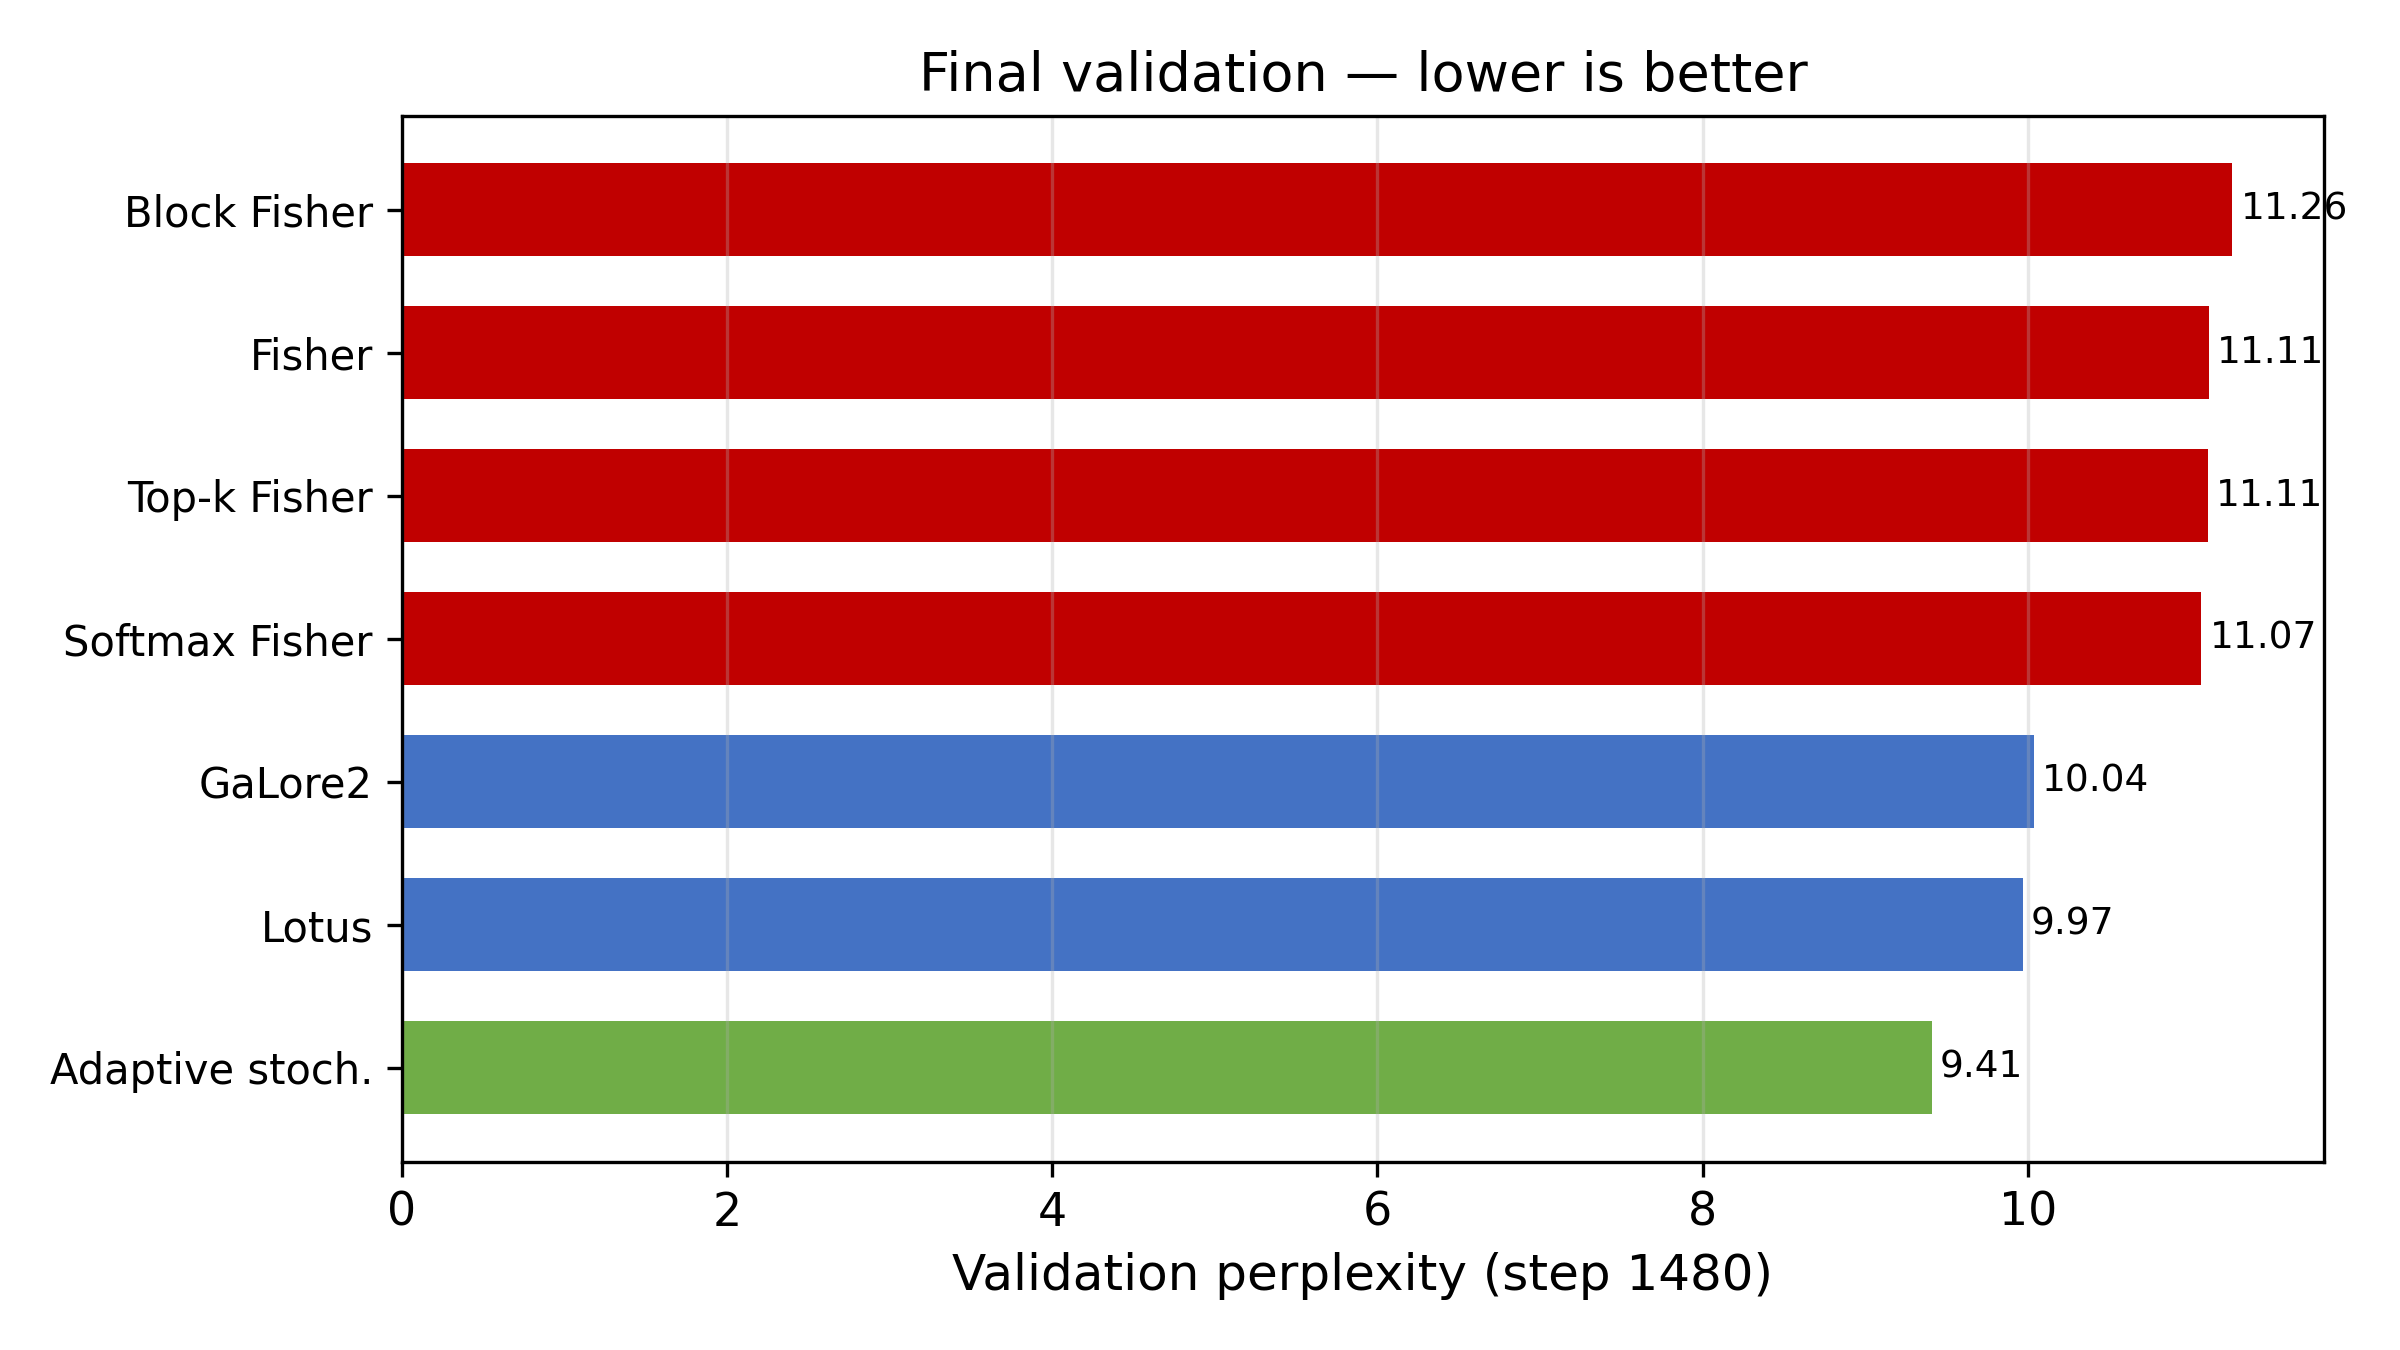
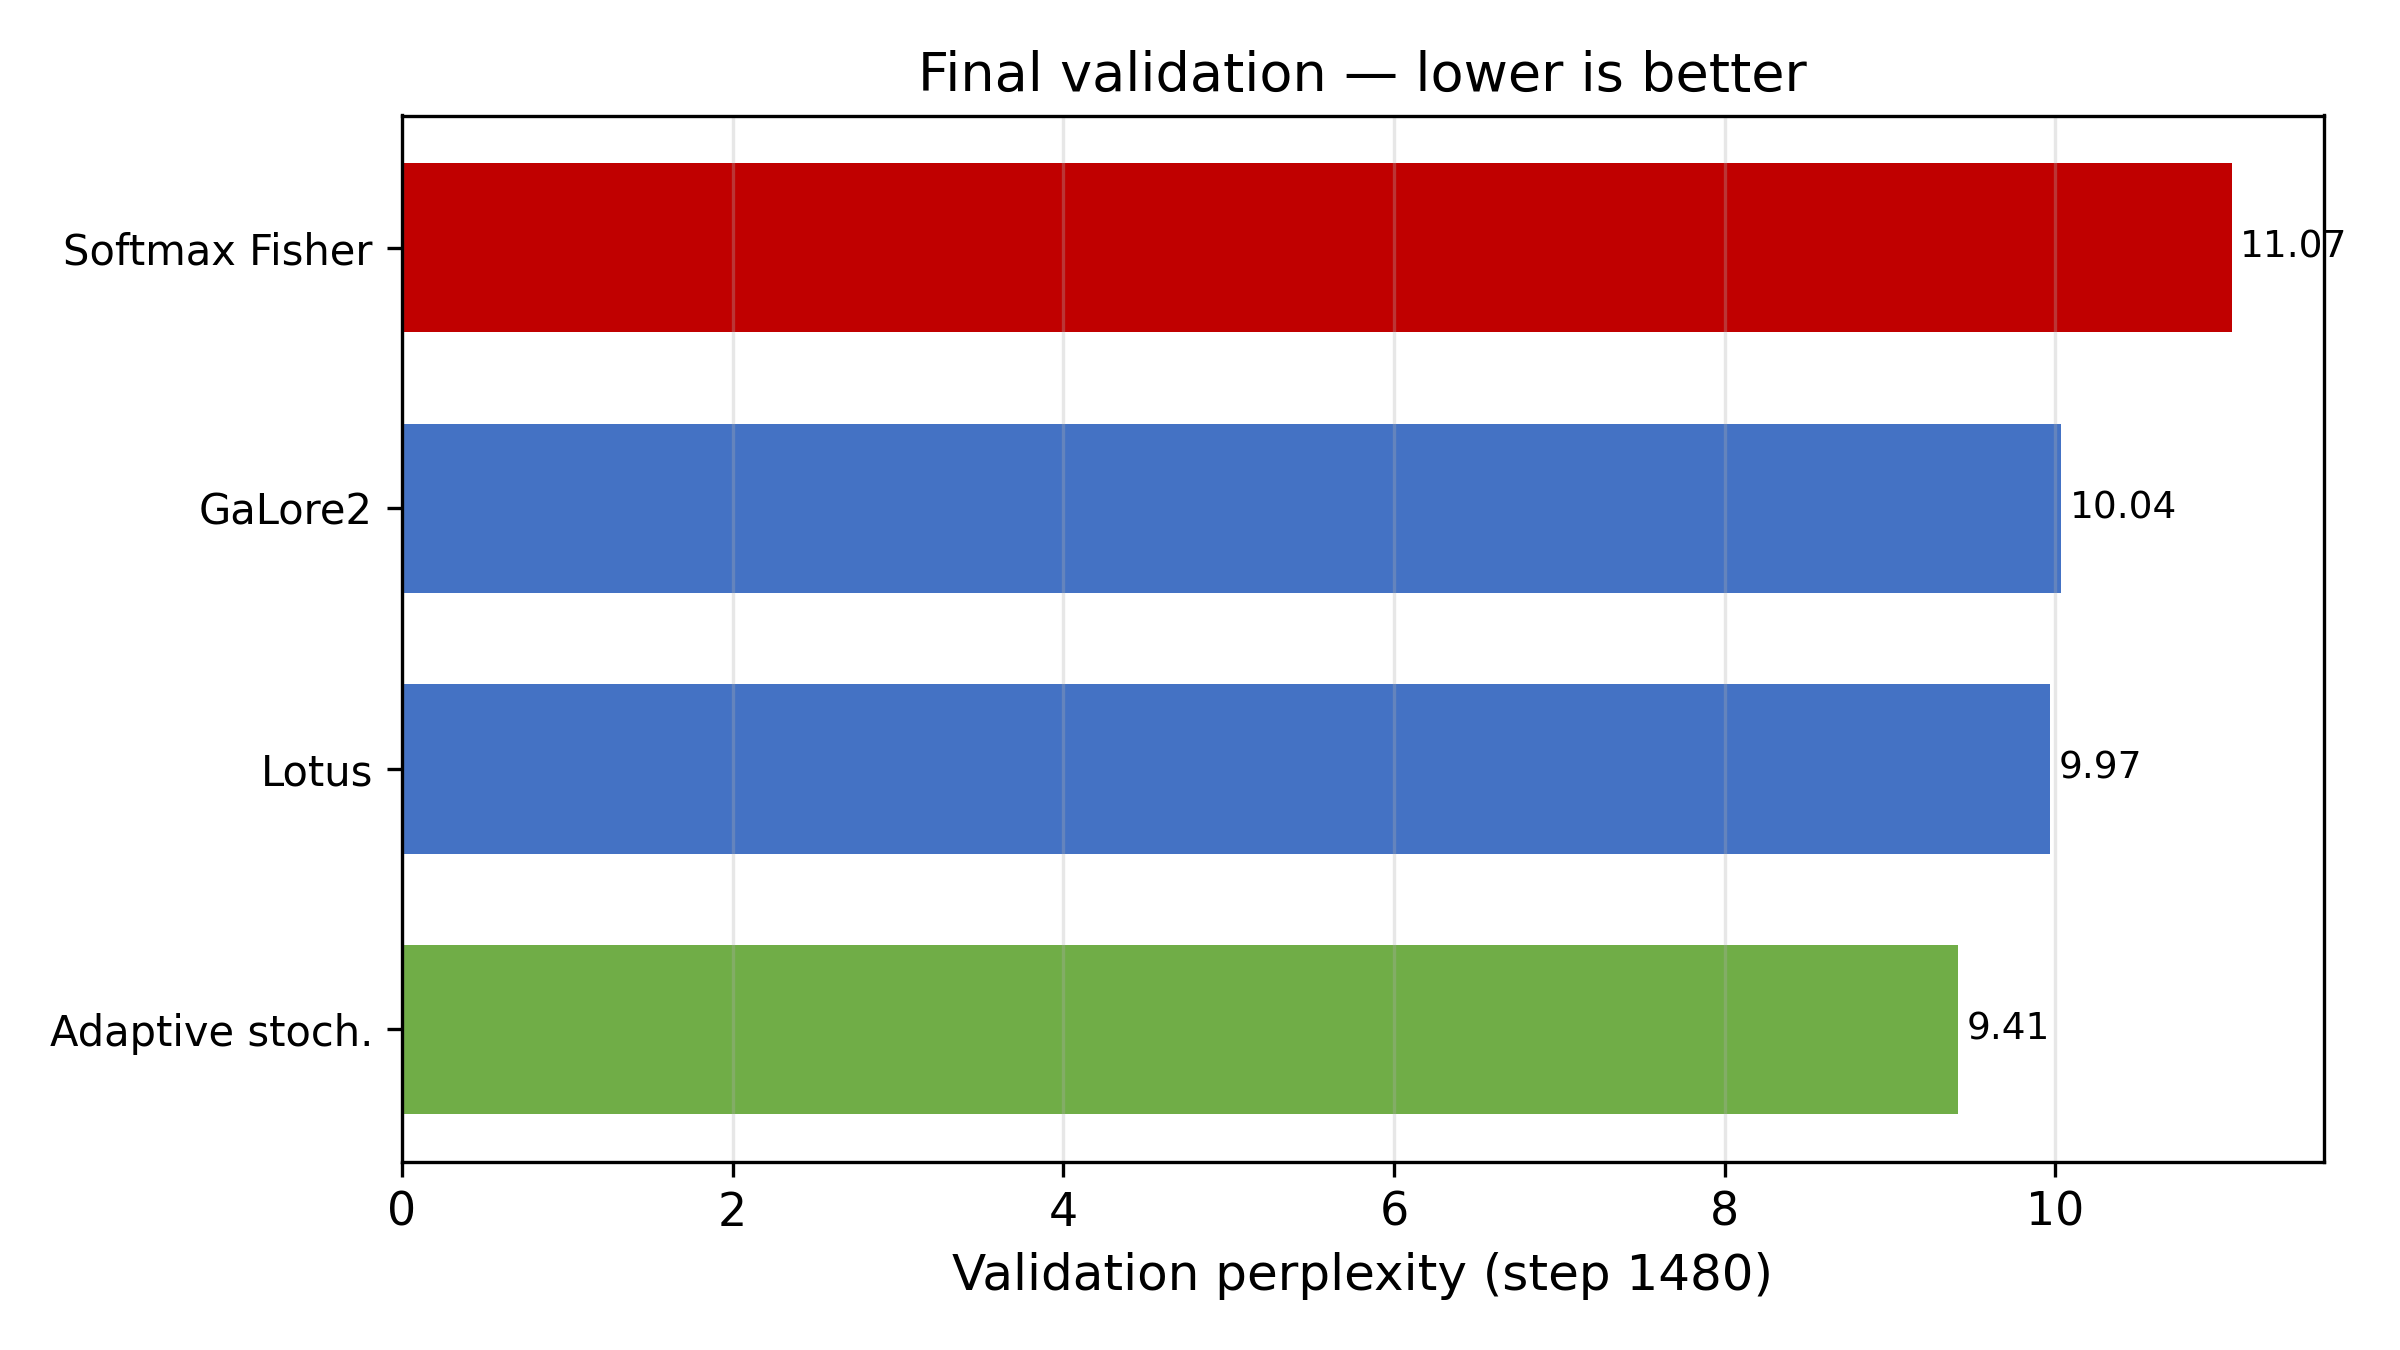
фикс графиков фишера

diff --git a/scripts/plot_poster.py b/scripts/plot_poster.py
@@ -25,19 +25,6 @@ RUNS = [
         None,
         "stochastic",
     ),
-    ("Fisher", ROOT / "runs/refinedweb_full_fisher_both_1500_seq2048_cr128.csv", "fisher_projector", "fisher"),
-    (
-        "Block Fisher",
-        ROOT / "runs/refinedweb_full_fisher_both_1500_seq2048_cr128.csv",
-        "block_fisher_projector",
-        "fisher",
-    ),
-    (
-        "Top-k Fisher",
-        ROOT / "runs/refinedweb_full_fisher_topk_softmax_1500_seq2048_cr64.csv",
-        "topk_fisher_projector",
-        "fisher",
-    ),
     (
         "Softmax Fisher",
         ROOT / "runs/refinedweb_full_fisher_topk_softmax_1500_seq2048_cr64.csv",
@@ -50,7 +37,7 @@ STYLE = {
     "baseline": {"color": "#4472C4", "lw": 2.4},
     "baseline2": {"color": "#ED7D31", "lw": 2.4},
     "stochastic": {"color": "#70AD47", "lw": 2.6},
-    "fisher": {"color": "#C00000", "lw": 1.6, "alpha": 0.85},
+    "fisher": {"color": "#C00000", "lw": 2.4},
 }
 
 BASELINES = [
@@ -102,9 +89,8 @@ def plot_curves(out_dir: Path) -> None:
         if steps.size == 0:
             continue
         style = STYLE[group]
-        ax.plot(steps, vals, label=label, **{k: v for k, v in style.items() if k != "alpha"})
-        if "alpha" in style:
-            ax.lines[-1].set_alpha(style["alpha"])
+        kwargs = {k: v for k, v in style.items() if k != "alpha"}
+        ax.plot(steps, vals, label=label, **kwargs)
 
     ax.set_xlabel("Training step")
     ax.set_ylabel("Validation perplexity")
@@ -197,7 +183,12 @@ def plot_baselines_vs_fisher(out_dir: Path) -> None:
             None,
             "stochastic",
         ),
-        ("Fisher (avg)", ROOT / "runs/refinedweb_full_fisher_both_1500_seq2048_cr128.csv", "fisher_projector", "fisher"),
+        (
+            "Softmax Fisher",
+            ROOT / "runs/refinedweb_full_fisher_topk_softmax_1500_seq2048_cr64.csv",
+            "softmax_fisher_projector",
+            "fisher",
+        ),
     ]
     labels, vals, colors = [], [], []
     for label, path, proj, group in pick:
@@ -213,7 +204,7 @@ def plot_baselines_vs_fisher(out_dir: Path) -> None:
     bars = ax.bar(x, vals, color=colors, width=0.62)
     ax.set_xticks(x, labels, rotation=15, ha="right", fontsize=10)
     ax.set_ylabel("Val perplexity")
-    ax.set_title("Baselines vs Fisher (poster slide)")
+    ax.set_title("Baselines vs Softmax Fisher")
     ax.grid(axis="y", alpha=0.3)
     for bar, value in zip(bars, vals):
         ax.text(bar.get_x() + bar.get_width() / 2, value + 0.08, f"{value:.2f}", ha="center", fontsize=9)
